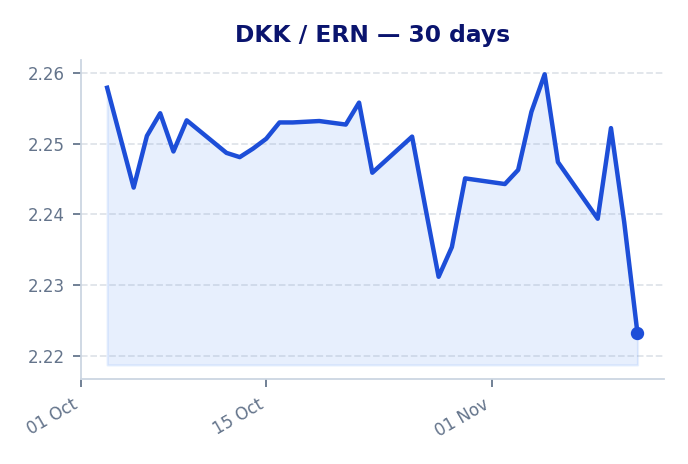
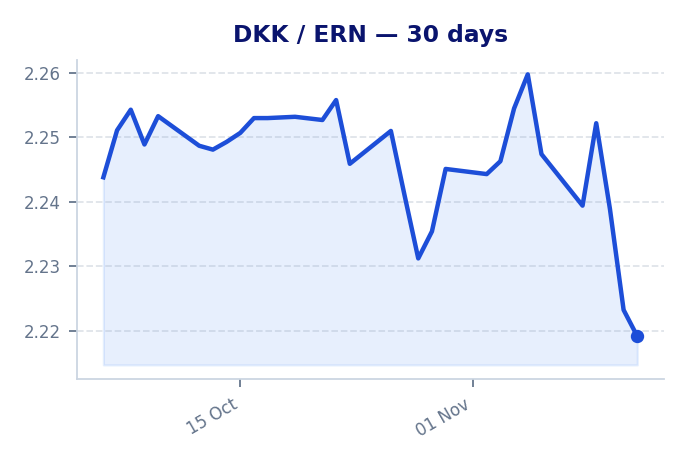
Add files via upload

diff --git a/index.html b/index.html
@@ -939,22 +939,22 @@ tr:hover {
 
             <div class="summary-item">
                 <div class="summary-label">SEK</div>
-                <div class="summary-value">1.5026</div>
+                <div class="summary-value">1.4959</div>
             </div>
 
             <div class="summary-item">
                 <div class="summary-label">NOK</div>
-                <div class="summary-value">1.5671</div>
+                <div class="summary-value">1.5675</div>
             </div>
 
             <div class="summary-item">
                 <div class="summary-label">DKK</div>
-                <div class="summary-value">2.2232</div>
+                <div class="summary-value">2.2191</div>
             </div>
 
             </div>
             <div class="mid-market-meta">
-                <div><span style="font-weight:600" data-i18n="last-updated">Last Updated:</span> 2026-11-12 07:09</div>
+                <div><span style="font-weight:600" data-i18n="last-updated">Last Updated:</span> 2026-11-13 07:12</div>
                 <div style="font-size:0.8rem" data-i18n="mid-market-note">Official mid-market rates collected daily. Actual transfer payout rates shown below.</div>
             </div>
         </div>
@@ -974,11 +974,11 @@ tr:hover {
             <div class="insight-boxes">
                 <div class="bestbox">
                     <span class="icon">🏆</span> 
-                    <span data-i18n="top-pick">Top Pick: <b>Ria</b> delivers <b>14 800 ERN</b></span>
+                    <span data-i18n="top-pick">Top Pick: <b>Ria</b> delivers <b>14 700 ERN</b></span>
                 </div>
                 <div class="gainbox">
                     <span class="icon">💡</span> 
-                    <span data-i18n="smart-move">Smart Move: You get <b>+426 ERN</b> more with <b>Ria</b> vs <b>Juba Express</b></span>
+                    <span data-i18n="smart-move">Smart Move: You get <b>+392 ERN</b> more with <b>Ria</b> vs <b>Juba Express</b></span>
                 </div>
             </div>
             
@@ -1001,11 +1001,11 @@ tr:hover {
 <td class="left">
     <div class="company-name">Ria</div>
 </td>
-<td class="right font-numeric">1.4800</td>
+<td class="right font-numeric">1.4700</td>
 <td class="right font-numeric">0,00</td>
-<td class="right nowrap font-numeric highlight-ern">14 800</td>
+<td class="right nowrap font-numeric highlight-ern">14 700</td>
 <td class="right nowrap font-numeric">-</td>
-<td class="right font-numeric markup-good">1.50%</td>
+<td class="right font-numeric markup-good">1.73%</td>
 <td class="right font-numeric hide-mobile"><span class="badge best-badge">Best</span></td>
 </tr>
 
@@ -1013,11 +1013,11 @@ tr:hover {
 <td class="left">
     <div class="company-name">Transfer Galaxy</div>
 </td>
-<td class="right font-numeric">1.4691</td>
+<td class="right font-numeric">1.4595</td>
 <td class="right font-numeric">0,00</td>
-<td class="right nowrap font-numeric highlight-ern">14 691</td>
-<td class="right nowrap font-numeric"><span class="loss-text">-109 ERN</span></td>
-<td class="right font-numeric markup-cell">2.23%</td>
+<td class="right nowrap font-numeric highlight-ern">14 595</td>
+<td class="right nowrap font-numeric"><span class="loss-text">-105 ERN</span></td>
+<td class="right font-numeric markup-cell">2.43%</td>
 <td class="right font-numeric hide-mobile"><span class="badge rank-badge">#2</span></td>
 </tr>
 
@@ -1025,11 +1025,11 @@ tr:hover {
 <td class="left">
     <div class="company-name">Western Union</div>
 </td>
-<td class="right font-numeric">1.4650</td>
+<td class="right font-numeric">1.4580</td>
 <td class="right font-numeric">0,00</td>
-<td class="right nowrap font-numeric highlight-ern">14 650</td>
-<td class="right nowrap font-numeric"><span class="loss-text">-150 ERN</span></td>
-<td class="right font-numeric markup-cell">2.50%</td>
+<td class="right nowrap font-numeric highlight-ern">14 580</td>
+<td class="right nowrap font-numeric"><span class="loss-text">-120 ERN</span></td>
+<td class="right font-numeric markup-cell">2.53%</td>
 <td class="right font-numeric hide-mobile"><span class="badge rank-badge">#3</span></td>
 </tr>
 
@@ -1037,11 +1037,11 @@ tr:hover {
 <td class="left">
     <div class="company-name">Remitly</div>
 </td>
-<td class="right font-numeric">1.4624</td>
+<td class="right font-numeric">1.4565</td>
 <td class="right font-numeric">0,00</td>
-<td class="right nowrap font-numeric highlight-ern">14 624</td>
-<td class="right nowrap font-numeric"><span class="loss-text">-176 ERN</span></td>
-<td class="right font-numeric markup-cell">2.68%</td>
+<td class="right nowrap font-numeric highlight-ern">14 564</td>
+<td class="right nowrap font-numeric"><span class="loss-text">-135 ERN</span></td>
+<td class="right font-numeric markup-cell">2.63%</td>
 <td class="right font-numeric hide-mobile"><span class="badge rank-badge">#4</span></td>
 </tr>
 
@@ -1049,11 +1049,11 @@ tr:hover {
 <td class="left">
     <div class="company-name">Dahabshiil</div>
 </td>
-<td class="right font-numeric">1.4475</td>
+<td class="right font-numeric">1.4408</td>
 <td class="right font-numeric">0,00</td>
-<td class="right nowrap font-numeric highlight-ern">14 475</td>
-<td class="right nowrap font-numeric"><span class="loss-text">-325 ERN</span></td>
-<td class="right font-numeric markup-cell">3.67%</td>
+<td class="right nowrap font-numeric highlight-ern">14 408</td>
+<td class="right nowrap font-numeric"><span class="loss-text">-292 ERN</span></td>
+<td class="right font-numeric markup-cell">3.68%</td>
 <td class="right font-numeric hide-mobile"><span class="badge rank-badge">#5</span></td>
 </tr>
 
@@ -1061,11 +1061,11 @@ tr:hover {
 <td class="left">
     <div class="company-name">Juba Express</div>
 </td>
-<td class="right font-numeric">1.4374</td>
+<td class="right font-numeric">1.4308</td>
 <td class="right font-numeric">0,00</td>
-<td class="right nowrap font-numeric highlight-ern">14 374</td>
-<td class="right nowrap font-numeric"><span class="loss-text">-426 ERN</span></td>
-<td class="right font-numeric markup-cell">4.34%</td>
+<td class="right nowrap font-numeric highlight-ern">14 308</td>
+<td class="right nowrap font-numeric"><span class="loss-text">-392 ERN</span></td>
+<td class="right font-numeric markup-cell">4.35%</td>
 <td class="right font-numeric hide-mobile"><span class="badge rank-badge">#6</span></td>
 </tr>
 
@@ -1087,11 +1087,11 @@ tr:hover {
             <div class="insight-boxes">
                 <div class="bestbox">
                     <span class="icon">🏆</span> 
-                    <span data-i18n="top-pick">Top Pick: <b>Transfer Galaxy</b> delivers <b>15 321 ERN</b></span>
+                    <span data-i18n="top-pick">Top Pick: <b>Transfer Galaxy</b> delivers <b>15 308 ERN</b></span>
                 </div>
                 <div class="gainbox">
                     <span class="icon">💡</span> 
-                    <span data-i18n="smart-move">Smart Move: You get <b>+695 ERN</b> more with <b>Transfer Galaxy</b> vs <b>Dahabshiil</b></span>
+                    <span data-i18n="smart-move">Smart Move: You get <b>+683 ERN</b> more with <b>Transfer Galaxy</b> vs <b>Dahabshiil</b></span>
                 </div>
             </div>
             
@@ -1114,35 +1114,35 @@ tr:hover {
 <td class="left">
     <div class="company-name">Transfer Galaxy</div>
 </td>
-<td class="right font-numeric">1.5321</td>
+<td class="right font-numeric">1.5308</td>
 <td class="right font-numeric">0,00</td>
-<td class="right nowrap font-numeric highlight-ern">15 321</td>
+<td class="right nowrap font-numeric highlight-ern">15 308</td>
 <td class="right nowrap font-numeric">-</td>
-<td class="right font-numeric markup-cell">2.23%</td>
+<td class="right font-numeric markup-cell">2.34%</td>
 <td class="right font-numeric hide-mobile"><span class="badge best-badge">Best</span></td>
-</tr>
-
-<tr class="">
-<td class="left">
-    <div class="company-name">Ria Money Transfer</div>
-</td>
-<td class="right font-numeric">1.5300</td>
-<td class="right font-numeric">0,00</td>
-<td class="right nowrap font-numeric highlight-ern">15 300</td>
-<td class="right nowrap font-numeric"><span class="loss-text">-21 ERN</span></td>
-<td class="right font-numeric markup-cell">2.37%</td>
-<td class="right font-numeric hide-mobile"><span class="badge rank-badge">#2</span></td>
 </tr>
 
 <tr class="">
 <td class="left">
     <div class="company-name">Remitly</div>
 </td>
-<td class="right font-numeric">1.5208</td>
+<td class="right font-numeric">1.5202</td>
 <td class="right font-numeric">0,00</td>
-<td class="right nowrap font-numeric highlight-ern">15 208</td>
-<td class="right nowrap font-numeric"><span class="loss-text">-113 ERN</span></td>
-<td class="right font-numeric markup-cell">2.95%</td>
+<td class="right nowrap font-numeric highlight-ern">15 202</td>
+<td class="right nowrap font-numeric"><span class="loss-text">-106 ERN</span></td>
+<td class="right font-numeric markup-cell">3.02%</td>
+<td class="right font-numeric hide-mobile"><span class="badge rank-badge">#2</span></td>
+</tr>
+
+<tr class="">
+<td class="left">
+    <div class="company-name">Ria Money Transfer</div>
+</td>
+<td class="right font-numeric">1.5200</td>
+<td class="right font-numeric">0,00</td>
+<td class="right nowrap font-numeric highlight-ern">15 200</td>
+<td class="right nowrap font-numeric"><span class="loss-text">-108 ERN</span></td>
+<td class="right font-numeric markup-cell">3.03%</td>
 <td class="right font-numeric hide-mobile"><span class="badge rank-badge">#3</span></td>
 </tr>
 
@@ -1153,8 +1153,8 @@ tr:hover {
 <td class="right font-numeric">1.4990</td>
 <td class="right font-numeric">0,00</td>
 <td class="right nowrap font-numeric highlight-ern">14 990</td>
-<td class="right nowrap font-numeric"><span class="loss-text">-330 ERN</span></td>
-<td class="right font-numeric markup-cell">4.35%</td>
+<td class="right nowrap font-numeric"><span class="loss-text">-317 ERN</span></td>
+<td class="right font-numeric markup-cell">4.37%</td>
 <td class="right font-numeric hide-mobile"><span class="badge rank-badge">#4</span></td>
 </tr>
 
@@ -1162,11 +1162,11 @@ tr:hover {
 <td class="left">
     <div class="company-name">Hidmona Money Transfer</div>
 </td>
-<td class="right font-numeric">1.4901</td>
+<td class="right font-numeric">1.4909</td>
 <td class="right font-numeric">0,00</td>
-<td class="right nowrap font-numeric highlight-ern">14 901</td>
-<td class="right nowrap font-numeric"><span class="loss-text">-420 ERN</span></td>
-<td class="right font-numeric markup-cell">4.91%</td>
+<td class="right nowrap font-numeric highlight-ern">14 908</td>
+<td class="right nowrap font-numeric"><span class="loss-text">-399 ERN</span></td>
+<td class="right font-numeric markup-cell">4.89%</td>
 <td class="right font-numeric hide-mobile"><span class="badge rank-badge">#5</span></td>
 </tr>
 
@@ -1174,11 +1174,11 @@ tr:hover {
 <td class="left">
     <div class="company-name">Dahabshiil</div>
 </td>
-<td class="right font-numeric">1.4626</td>
+<td class="right font-numeric">1.4625</td>
 <td class="right font-numeric">0,00</td>
 <td class="right nowrap font-numeric highlight-ern">14 625</td>
-<td class="right nowrap font-numeric"><span class="loss-text">-695 ERN</span></td>
-<td class="right font-numeric markup-cell">6.67%</td>
+<td class="right nowrap font-numeric"><span class="loss-text">-683 ERN</span></td>
+<td class="right font-numeric markup-cell">6.70%</td>
 <td class="right font-numeric hide-mobile"><span class="badge rank-badge">#6</span></td>
 </tr>
 
@@ -1200,11 +1200,11 @@ tr:hover {
             <div class="insight-boxes">
                 <div class="bestbox">
                     <span class="icon">🏆</span> 
-                    <span data-i18n="top-pick">Top Pick: <b>Western Union</b> delivers <b>22 241 ERN</b></span>
+                    <span data-i18n="top-pick">Top Pick: <b>Western Union</b> delivers <b>22 180 ERN</b></span>
                 </div>
                 <div class="gainbox">
                     <span class="icon">💡</span> 
-                    <span data-i18n="smart-move">Smart Move: You get <b>+975 ERN</b> more with <b>Western Union</b> vs <b>Juba Express</b></span>
+                    <span data-i18n="smart-move">Smart Move: You get <b>+958 ERN</b> more with <b>Western Union</b> vs <b>Juba Express</b></span>
                 </div>
             </div>
             
@@ -1227,11 +1227,11 @@ tr:hover {
 <td class="left">
     <div class="company-name">Western Union</div>
 </td>
-<td class="right font-numeric">2.2241</td>
+<td class="right font-numeric">2.2180</td>
 <td class="right font-numeric">0,00</td>
-<td class="right nowrap font-numeric highlight-ern">22 241</td>
+<td class="right nowrap font-numeric highlight-ern">22 180</td>
 <td class="right nowrap font-numeric">-</td>
-<td class="right font-numeric markup-good">-0.04%</td>
+<td class="right font-numeric markup-good">0.05%</td>
 <td class="right font-numeric hide-mobile"><span class="badge best-badge">Best</span></td>
 </tr>
 
@@ -1239,11 +1239,11 @@ tr:hover {
 <td class="left">
     <div class="company-name">Ria Money Transfer</div>
 </td>
-<td class="right font-numeric">2.2000</td>
+<td class="right font-numeric">2.1900</td>
 <td class="right font-numeric">0,00</td>
-<td class="right nowrap font-numeric highlight-ern">22 000</td>
-<td class="right nowrap font-numeric"><span class="loss-text">-241 ERN</span></td>
-<td class="right font-numeric markup-good">1.04%</td>
+<td class="right nowrap font-numeric highlight-ern">21 900</td>
+<td class="right nowrap font-numeric"><span class="loss-text">-280 ERN</span></td>
+<td class="right font-numeric markup-good">1.31%</td>
 <td class="right font-numeric hide-mobile"><span class="badge rank-badge">#2</span></td>
 </tr>
 
@@ -1251,11 +1251,11 @@ tr:hover {
 <td class="left">
     <div class="company-name">Hidmona Money Transfer</div>
 </td>
-<td class="right font-numeric">2.1828</td>
+<td class="right font-numeric">2.1765</td>
 <td class="right font-numeric">0,00</td>
-<td class="right nowrap font-numeric highlight-ern">21 828</td>
-<td class="right nowrap font-numeric"><span class="loss-text">-413 ERN</span></td>
-<td class="right font-numeric markup-good">1.82%</td>
+<td class="right nowrap font-numeric highlight-ern">21 765</td>
+<td class="right nowrap font-numeric"><span class="loss-text">-415 ERN</span></td>
+<td class="right font-numeric markup-good">1.92%</td>
 <td class="right font-numeric hide-mobile"><span class="badge rank-badge">#3</span></td>
 </tr>
 
@@ -1263,11 +1263,11 @@ tr:hover {
 <td class="left">
     <div class="company-name">Transfer Galaxy</div>
 </td>
-<td class="right font-numeric">2.1730</td>
+<td class="right font-numeric">2.1646</td>
 <td class="right font-numeric">0,00</td>
-<td class="right nowrap font-numeric highlight-ern">21 730</td>
-<td class="right nowrap font-numeric"><span class="loss-text">-511 ERN</span></td>
-<td class="right font-numeric markup-cell">2.26%</td>
+<td class="right nowrap font-numeric highlight-ern">21 646</td>
+<td class="right nowrap font-numeric"><span class="loss-text">-534 ERN</span></td>
+<td class="right font-numeric markup-cell">2.46%</td>
 <td class="right font-numeric hide-mobile"><span class="badge rank-badge">#4</span></td>
 </tr>
 
@@ -1275,11 +1275,11 @@ tr:hover {
 <td class="left">
     <div class="company-name">Remitly</div>
 </td>
-<td class="right font-numeric">2.1724</td>
+<td class="right font-numeric">2.1637</td>
 <td class="right font-numeric">0,00</td>
-<td class="right nowrap font-numeric highlight-ern">21 724</td>
-<td class="right nowrap font-numeric"><span class="loss-text">-517 ERN</span></td>
-<td class="right font-numeric markup-cell">2.28%</td>
+<td class="right nowrap font-numeric highlight-ern">21 637</td>
+<td class="right nowrap font-numeric"><span class="loss-text">-543 ERN</span></td>
+<td class="right font-numeric markup-cell">2.50%</td>
 <td class="right font-numeric hide-mobile"><span class="badge rank-badge">#5</span></td>
 </tr>
 
@@ -1287,11 +1287,11 @@ tr:hover {
 <td class="left">
     <div class="company-name">Juba Express</div>
 </td>
-<td class="right font-numeric">2.1266</td>
+<td class="right font-numeric">2.1222</td>
 <td class="right font-numeric">0,00</td>
-<td class="right nowrap font-numeric highlight-ern">21 266</td>
-<td class="right nowrap font-numeric"><span class="loss-text">-975 ERN</span></td>
-<td class="right font-numeric markup-cell">4.35%</td>
+<td class="right nowrap font-numeric highlight-ern">21 222</td>
+<td class="right nowrap font-numeric"><span class="loss-text">-958 ERN</span></td>
+<td class="right font-numeric markup-cell">4.37%</td>
 <td class="right font-numeric hide-mobile"><span class="badge rank-badge">#6</span></td>
 </tr>
 
@@ -1309,7 +1309,7 @@ tr:hover {
             <div class="chart-card">
                 <div class="chart-header">
                     <img src="https://flagcdn.com/w40/se.png" class="flag-sm" alt="Sweden" width="24" height="16" loading="lazy" decoding="async"> <span>SEK / ERN</span>
-                    <span class="trend-badge up">▲ 0.5%</span>
+                    <span class="trend-badge up">▲ 0.6%</span>
                 </div>
                 <img src="sek_chart.png" class="chart-img" alt="SEK to ERN exchange-rate trend over the last 30 days" loading="lazy" decoding="async" width="688" height="464">
             </div>
@@ -1317,7 +1317,7 @@ tr:hover {
             <div class="chart-card">
                 <div class="chart-header">
                     <img src="https://flagcdn.com/w40/no.png" class="flag-sm" alt="Norway" width="24" height="16" loading="lazy" decoding="async"> <span>NOK / ERN</span>
-                    <span class="trend-badge up">▲ 0.5%</span>
+                    <span class="trend-badge up">▲ 1.0%</span>
                 </div>
                 <img src="nok_chart.png" class="chart-img" alt="NOK to ERN exchange-rate trend over the last 30 days" loading="lazy" decoding="async" width="688" height="464">
             </div>
@@ -1325,7 +1325,7 @@ tr:hover {
             <div class="chart-card">
                 <div class="chart-header">
                     <img src="https://flagcdn.com/w40/dk.png" class="flag-sm" alt="Denmark" width="24" height="16" loading="lazy" decoding="async"> <span>DKK / ERN</span>
-                    <span class="trend-badge down">▼ 1.5%</span>
+                    <span class="trend-badge down">▼ 1.1%</span>
                 </div>
                 <img src="dkk_chart.png" class="chart-img" alt="DKK to ERN exchange-rate trend over the last 30 days" loading="lazy" decoding="async" width="688" height="464">
             </div>
@@ -1389,7 +1389,7 @@ tr:hover {
         "calculator-note": "እቲ ዝበለጸ ክፍሊት ንዝኣተኻዮ መጠን ብተመሳሳሊ ሕሳብ ዋጋን ክፍሊትን ከም ሰንጠረዥ ይደጋገም።"
     };
 
-    const calculatorData = {"SEK": [{"provider": "Ria", "rate": 1.48, "total_fee": 0.0}, {"provider": "Transfer Galaxy", "rate": 1.4691, "total_fee": 0.0}, {"provider": "Western Union", "rate": 1.465, "total_fee": 0.0}, {"provider": "Remitly", "rate": 1.4624, "total_fee": 0.0}, {"provider": "Dahabshiil", "rate": 1.4475, "total_fee": 0.0}, {"provider": "Juba Express", "rate": 1.4374, "total_fee": 0.0}], "NOK": [{"provider": "Transfer Galaxy", "rate": 1.5321, "total_fee": 0.0}, {"provider": "Ria Money Transfer", "rate": 1.53, "total_fee": 0.0}, {"provider": "Remitly", "rate": 1.5208, "total_fee": 0.0}, {"provider": "Juba Express", "rate": 1.499, "total_fee": 0.0}, {"provider": "Hidmona Money Transfer", "rate": 1.4901, "total_fee": 0.0}, {"provider": "Dahabshiil", "rate": 1.4626, "total_fee": 0.0}], "DKK": [{"provider": "Western Union", "rate": 2.2241, "total_fee": 0.0}, {"provider": "Ria Money Transfer", "rate": 2.2, "total_fee": 0.0}, {"provider": "Hidmona Money Transfer", "rate": 2.1828, "total_fee": 0.0}, {"provider": "Transfer Galaxy", "rate": 2.173, "total_fee": 0.0}, {"provider": "Remitly", "rate": 2.1724, "total_fee": 0.0}, {"provider": "Juba Express", "rate": 2.1266, "total_fee": 0.0}]};
+    const calculatorData = {"SEK": [{"provider": "Ria", "rate": 1.47, "total_fee": 0.0}, {"provider": "Transfer Galaxy", "rate": 1.4595, "total_fee": 0.0}, {"provider": "Western Union", "rate": 1.458, "total_fee": 0.0}, {"provider": "Remitly", "rate": 1.4565, "total_fee": 0.0}, {"provider": "Dahabshiil", "rate": 1.4408, "total_fee": 0.0}, {"provider": "Juba Express", "rate": 1.4308, "total_fee": 0.0}], "NOK": [{"provider": "Transfer Galaxy", "rate": 1.5308, "total_fee": 0.0}, {"provider": "Remitly", "rate": 1.5202, "total_fee": 0.0}, {"provider": "Ria Money Transfer", "rate": 1.52, "total_fee": 0.0}, {"provider": "Juba Express", "rate": 1.499, "total_fee": 0.0}, {"provider": "Hidmona Money Transfer", "rate": 1.4909, "total_fee": 0.0}, {"provider": "Dahabshiil", "rate": 1.4625, "total_fee": 0.0}], "DKK": [{"provider": "Western Union", "rate": 2.218, "total_fee": 0.0}, {"provider": "Ria Money Transfer", "rate": 2.19, "total_fee": 0.0}, {"provider": "Hidmona Money Transfer", "rate": 2.1765, "total_fee": 0.0}, {"provider": "Transfer Galaxy", "rate": 2.1646, "total_fee": 0.0}, {"provider": "Remitly", "rate": 2.1637, "total_fee": 0.0}, {"provider": "Juba Express", "rate": 2.1222, "total_fee": 0.0}]};
     const labels = [...document.querySelectorAll('[data-i18n]')];
     const english = new Map(labels.map(el => [el, el.innerHTML]));
 
